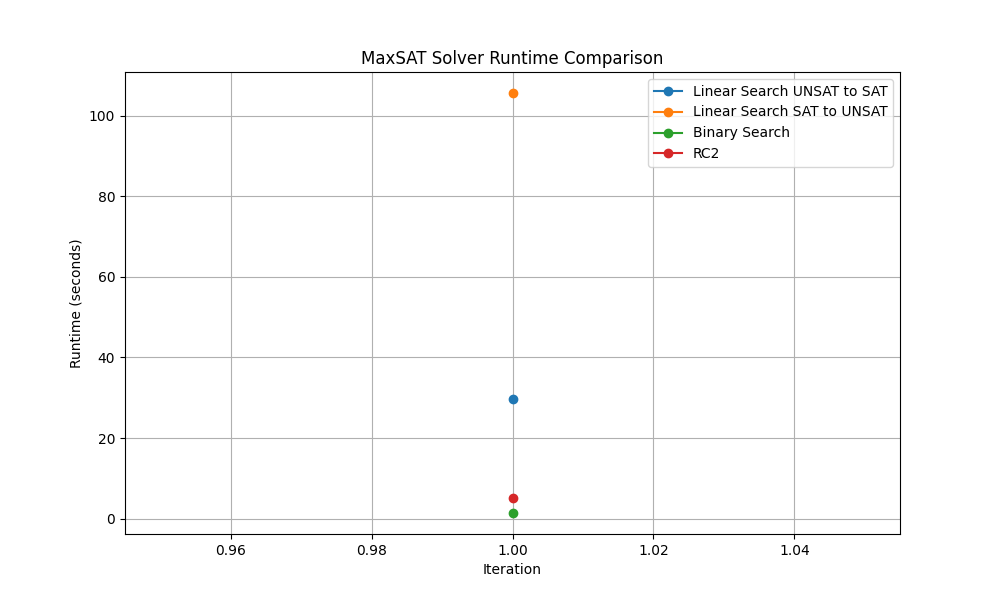
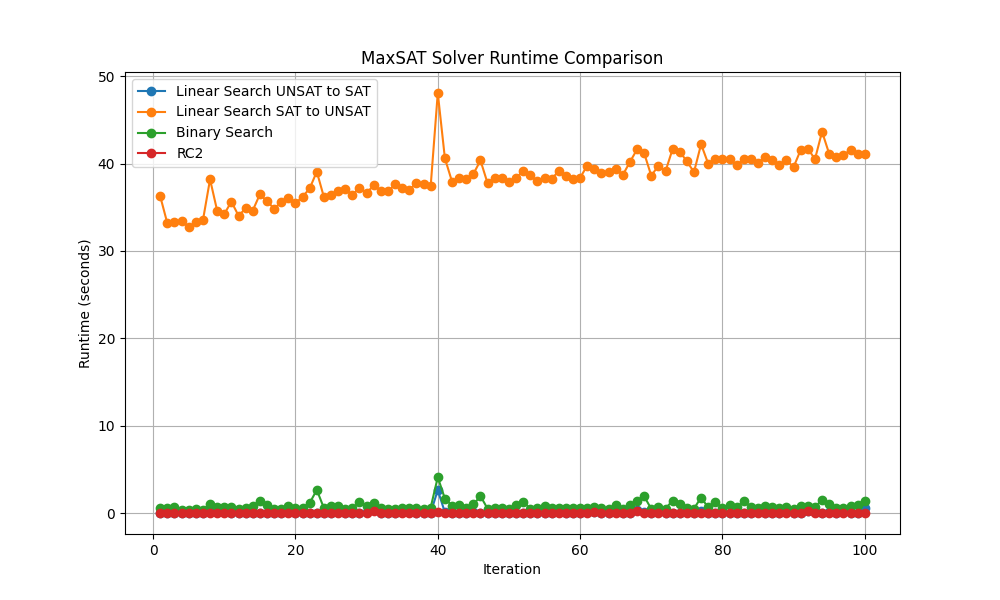
finished maxSAT

diff --git a/maxSAT.py b/maxSAT.py
@@ -247,7 +247,7 @@ def test_environment(num_vars, num_clauses, iterations=5):
     plt.ylabel("Runtime (seconds)")
     plt.legend()
     plt.grid(True)
-    plt.savefig("comparision_uuf75-325.png")
+    plt.savefig("comparison.png")
 
 ############################################
 #               Main method                #
@@ -256,6 +256,6 @@ def test_environment(num_vars, num_clauses, iterations=5):
 if __name__ == "__main__":
     num_vars = 25
     num_clauses = 100
-    iterations = 1
+    iterations = 100
     
     test_environment(num_vars, num_clauses, iterations)
